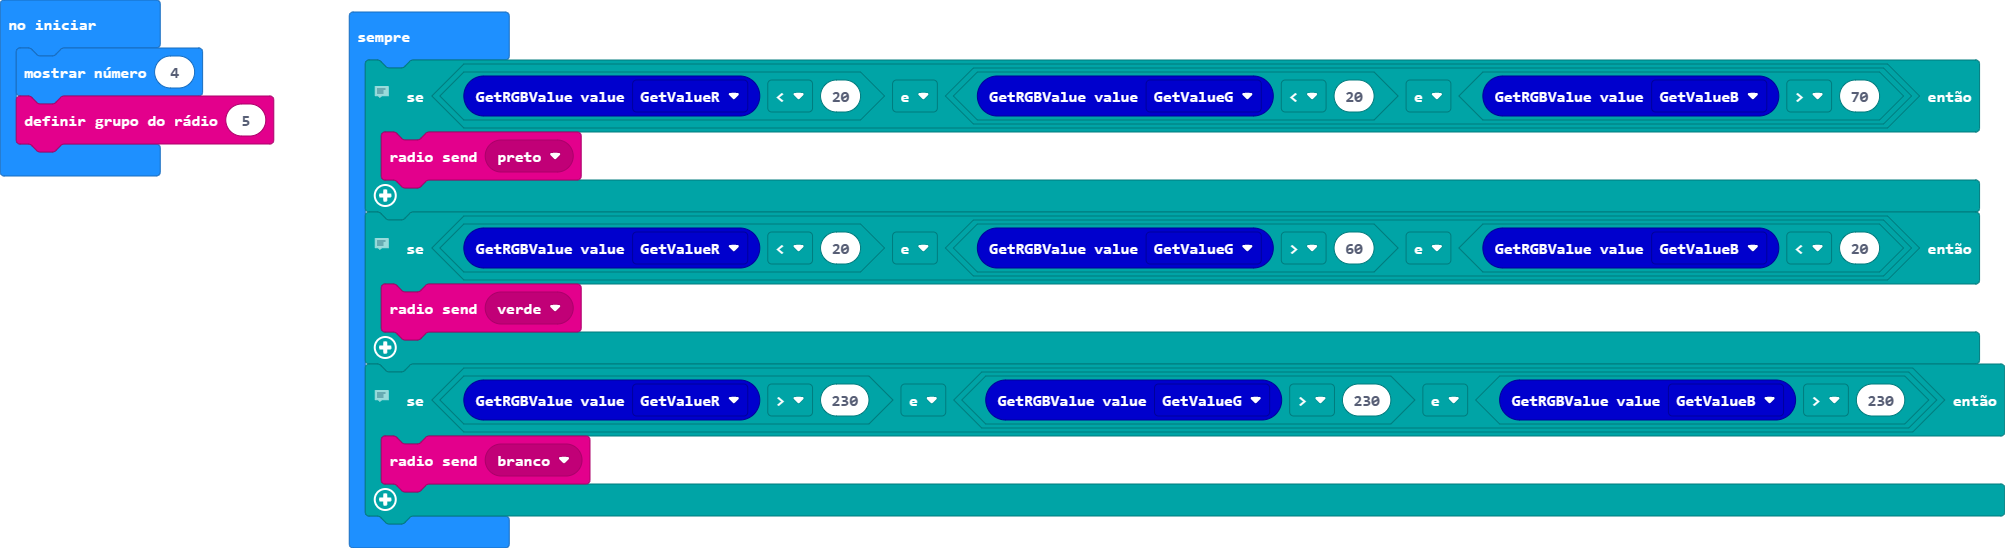
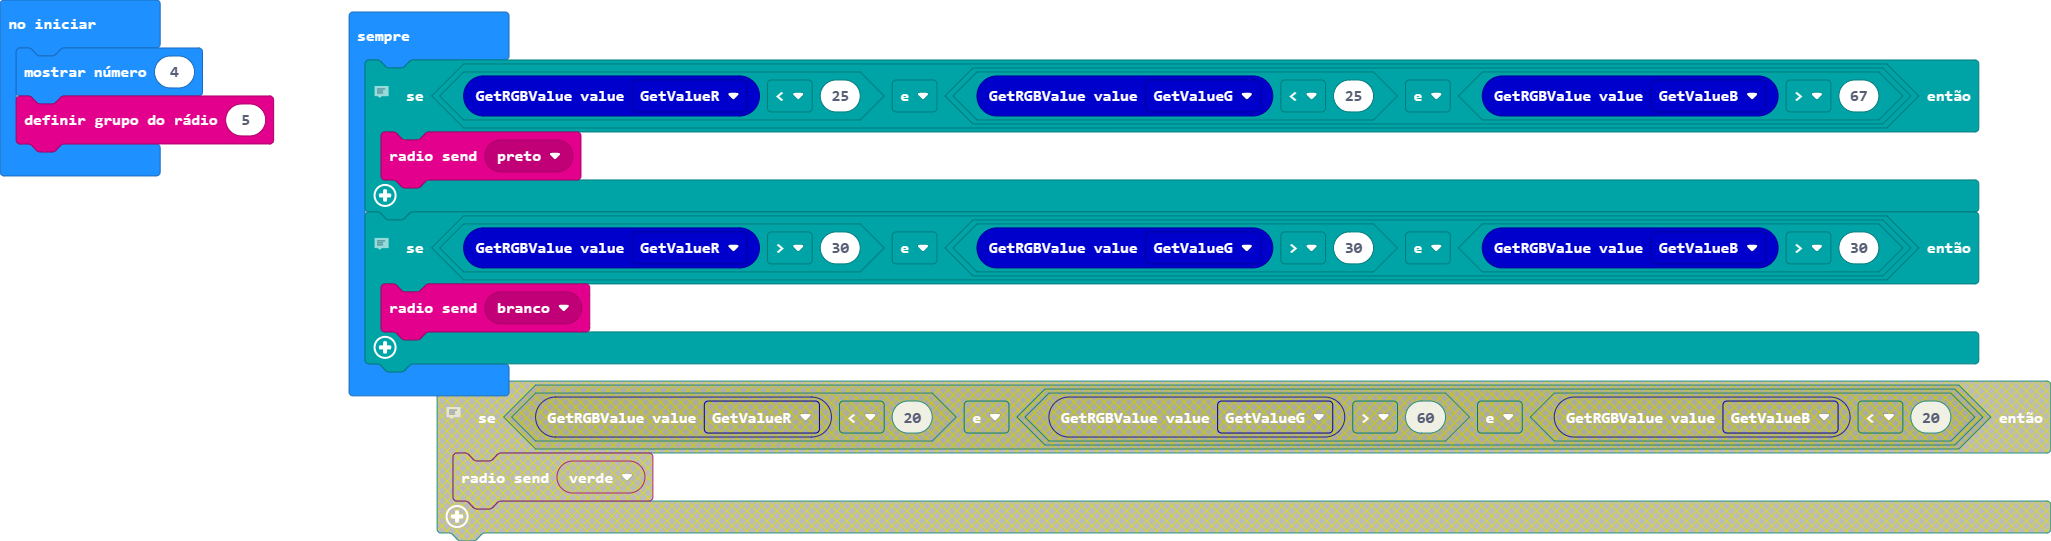
Atualizar 'main.blocks, main.ts'

diff --git a/main.ts b/main.ts
@@ -8,15 +8,11 @@ basic.showNumber(4)
 radio.setGroup(5)
 basic.forever(function () {
     // Vendo preto
-    if (Module_World_Color.GetRGBValue(Module_World_Color.enGetRGB.GetValueR) < 20 && (Module_World_Color.GetRGBValue(Module_World_Color.enGetRGB.GetValueG) < 20 && Module_World_Color.GetRGBValue(Module_World_Color.enGetRGB.GetValueB) > 70)) {
+    if (Module_World_Color.GetRGBValue(Module_World_Color.enGetRGB.GetValueR) < 25 && (Module_World_Color.GetRGBValue(Module_World_Color.enGetRGB.GetValueG) < 25 && Module_World_Color.GetRGBValue(Module_World_Color.enGetRGB.GetValueB) > 67)) {
         radio.sendMessage(RadioMessage.preto)
     }
-    // Vendo verde
-    if (Module_World_Color.GetRGBValue(Module_World_Color.enGetRGB.GetValueR) < 20 && (Module_World_Color.GetRGBValue(Module_World_Color.enGetRGB.GetValueG) > 60 && Module_World_Color.GetRGBValue(Module_World_Color.enGetRGB.GetValueB) < 20)) {
-        radio.sendMessage(RadioMessage.verde)
-    }
     // vendo branco
-    if (Module_World_Color.GetRGBValue(Module_World_Color.enGetRGB.GetValueR) > 230 && (Module_World_Color.GetRGBValue(Module_World_Color.enGetRGB.GetValueG) > 230 && Module_World_Color.GetRGBValue(Module_World_Color.enGetRGB.GetValueB) > 230)) {
+    if (Module_World_Color.GetRGBValue(Module_World_Color.enGetRGB.GetValueR) > 30 && (Module_World_Color.GetRGBValue(Module_World_Color.enGetRGB.GetValueG) > 30 && Module_World_Color.GetRGBValue(Module_World_Color.enGetRGB.GetValueB) > 30)) {
         radio.sendMessage(RadioMessage.branco)
     }
 })
